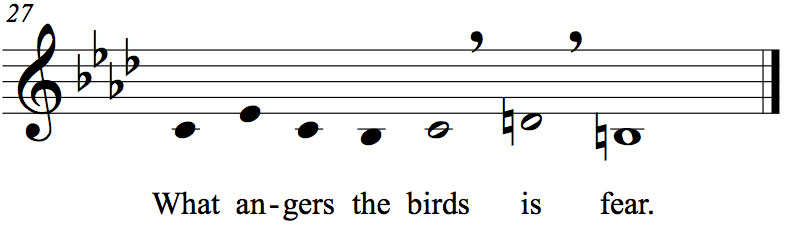
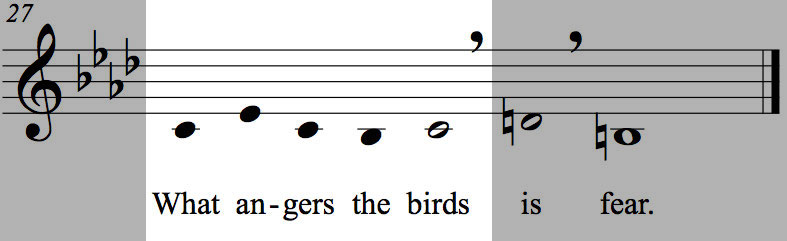
added checkpoints to coordinate the behavior of the live singers; broke final phrase into 3 segments

diff --git a/chirpcommand.html b/chirpcommand.html
@@ -181,11 +181,10 @@ function startStop() {
 // here ends my little hack interlude...
 
 
-// probably [0.5, 2.5]
-// for testing, making it very short
+// set these differently for me from what's in chirpscore.html, so my phrases happen before anyone else, so I can give pitches
 var pauseRanges = [[0.1, 0.15],
                    [0.1, 0.5],
-                   [2.5, 4.]];
+                   [0.5, 2.5]];
                    
 //text, max possible repeats, which set of pause values (above) to use
 var poemLines = [["Ornithological Blogpoem by Elisa Gabbert (tap to begin)", 0, 0],
@@ -203,7 +202,7 @@ var poemLines = [["Ornithological Blogpoem by Elisa Gabbert (tap to begin)", 0, 
                  ["They have been known to assemble themselves into bridges and other structures.", 0, 1],
                  ["An obelisk of feathers.", 0, 2],
                  ["Do not feed the birds;", 2, 1],
-                 ["they are following a strict high-protein diet.", 0, 2],
+                 ["they are following a strict high-protein diet.", 0, 1],
                  ["The birds are control freaks.", 1, 1],
                  ["Do not, under any circumstances, try to touch their beaks.", 0, 2],
                  ["One of the birds has assumed a leadership role.", 2, 1],
@@ -215,7 +214,9 @@ var poemLines = [["Ornithological Blogpoem by Elisa Gabbert (tap to begin)", 0, 
                  ["What would you like to hear?", 0, 2],
                  ["They have a very long waiting list and are nepotistic.", 0, 2],
                  ["Do not be afraid of angering the birds.", 0, 1],
-                 ["What angers the birds is fear.", 0, 2]];
+                 ["What angers the birds...", 0, 1],
+                 ["...is...", 0, 1],
+                 ["...fear.", 5, 1]];
 
 
 
@@ -224,7 +225,7 @@ twitterBird.src = "scores/Twitter_logo_blue.jpg";
 var scoreImages = [twitterBird];
 
 var newScore;
-for (var i = 1; i <= 27; i++) {
+for (var i = 1; i <= poemLines.length; i++) {
 	if (i < 10) {
 		newScore = "scores/0" + i + ".jpg";
 	} else {
@@ -254,7 +255,7 @@ function goToPhrase(phraseIndex) {
 }
 
 function displayScore() {
-	if (currentPoemLine >= 1 && currentPoemLine <= 27) {
+	if (currentPoemLine >= 1 && currentPoemLine <= poemLines.length) {
 		var scaledImageX = canvas.width * (scoreImages[currentPoemLine].width / 1181.);
 		var scaledImageY = scaledImageX * (scoreImages[currentPoemLine].height/scoreImages[currentPoemLine].width);
 		ctx.clearRect(0, 0, canvas.width, canvas.height);

diff --git a/chirpscore.html b/chirpscore.html
@@ -169,9 +169,7 @@ function startStop() {
 // here ends my little hack interlude...
 
 
-// probably [0.5, 2.5]
-// for testing, making it very short
-var pauseRanges = [[0.1, 0.15],
+var pauseRanges = [[0.5, 2.5],
                    [0.1, 0.5],
                    [2.5, 4.]];
                    
@@ -191,7 +189,7 @@ var poemLines = [["Ornithological Blogpoem by Elisa Gabbert (tap to begin)", 0, 
                  ["They have been known to assemble themselves into bridges and other structures.", 0, 1],
                  ["An obelisk of feathers.", 0, 2],
                  ["Do not feed the birds;", 2, 1],
-                 ["they are following a strict high-protein diet.", 0, 2],
+                 ["they are following a strict high-protein diet.", 0, 1],
                  ["The birds are control freaks.", 1, 1],
                  ["Do not, under any circumstances, try to touch their beaks.", 0, 2],
                  ["One of the birds has assumed a leadership role.", 2, 1],
@@ -203,7 +201,9 @@ var poemLines = [["Ornithological Blogpoem by Elisa Gabbert (tap to begin)", 0, 
                  ["What would you like to hear?", 0, 2],
                  ["They have a very long waiting list and are nepotistic.", 0, 2],
                  ["Do not be afraid of angering the birds.", 0, 1],
-                 ["What angers the birds is fear.", 0, 2]];
+                 ["What angers the birds...", 0, 1],
+                 ["...is...", 0, 1],
+                 ["...fear.", 5, 1]];
 
 
 
@@ -212,7 +212,7 @@ twitterBird.src = "scores/Twitter_logo_blue.jpg";
 var scoreImages = [twitterBird];
 
 var newScore;
-for (var i = 1; i <= 27; i++) {
+for (var i = 1; i <= poemLines.length; i++) {
 	if (i < 10) {
 		newScore = "scores/0" + i + ".jpg";
 	} else {
@@ -242,7 +242,7 @@ function goToPhrase(phraseIndex) {
 }
 
 function displayScore() {
-	if (currentPoemLine >= 1 && currentPoemLine <= 27) {
+	if (currentPoemLine >= 1 && currentPoemLine <= poemLines.length) {
 		var scaledImageX = canvas.width * (scoreImages[currentPoemLine].width / 1181.);
 		var scaledImageY = scaledImageX * (scoreImages[currentPoemLine].height/scoreImages[currentPoemLine].width);
 		ctx.clearRect(0, 0, canvas.width, canvas.height);

diff --git a/birds.js b/birds.js
@@ -112,7 +112,7 @@ function pushSoundToClient(filename, bufferIndex, socket) {
 		if (err) {
 			console.log("FOOL! " + err);
 		} else {
-			console.log('audio index:' + bufferIndex);
+			//console.log('audio index:' + bufferIndex);
 		    socket.emit('audio', { audio: true, buffer: buf, index: bufferIndex });
 		}
 	});
